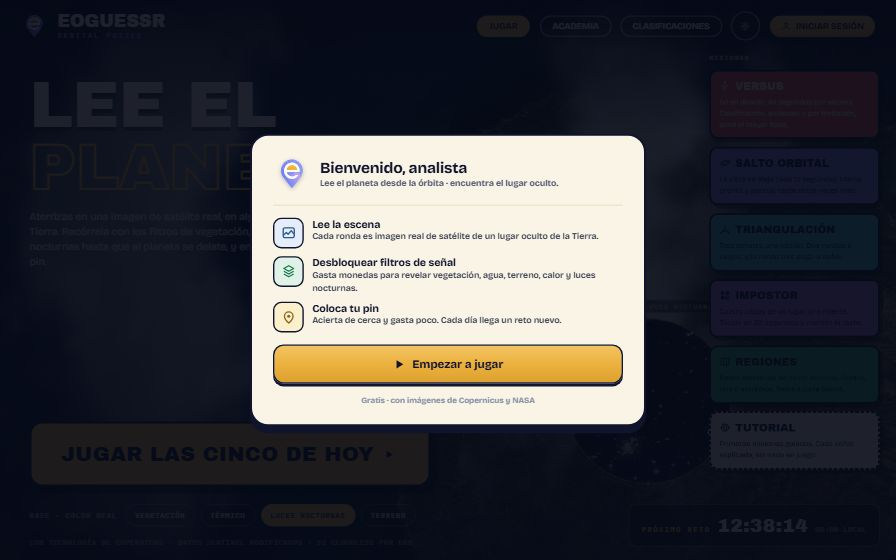
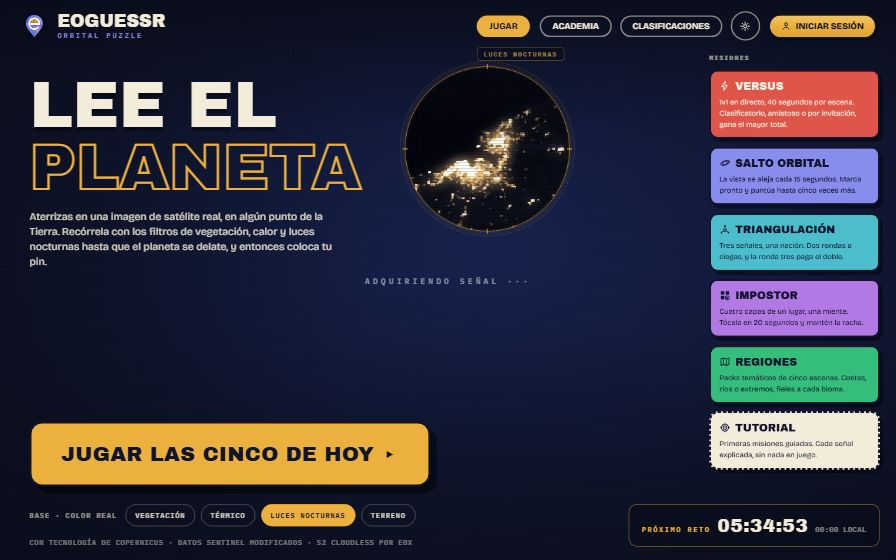
feat(projects): the preview opens the site, not its welcome tour
Four sites greeted a first time visitor with something that covered the
product: a seven step coach on ARQUIVO NÓS, a welcome modal on EOGUESSR,
a language gate on HOXE, an intro carousel on NEXUM. Inside a preview
card nobody can read or dismiss any of it, so the card was showing a
door instead of a room.

Three of them now understand ?embed=1 and skip straight to the product,
and the cards load that. NEXUM keeps its welcome slide: behind it there
is an account signup, not a product, so the slide is the honest picture.

Posters recaptured through the same URLs, so poster and live view show
the same thing while one fades into the other.

diff --git a/src/data/projects.ts b/src/data/projects.ts
@@ -22,6 +22,13 @@ export type Project = {
      * Turn it back to true once the site names mcebral.com as a frame ancestor.
      */
     embeddable?: boolean;
+    /**
+     * What the preview loads, when that is not simply the first link. Sites
+     * that greet a first time visitor with a tour or a language gate take
+     * ?embed=1, which skips it: nobody can read or dismiss a tour inside a
+     * card, so it would only hide the thing worth showing.
+     */
+    previewUrl?: string;
 };
 
 // ── EDIT PROJECTS HERE ────────────────────────────────────────────────────
@@ -100,6 +107,7 @@ export const projects: Project[] = [
         accent: "#4ec1ce",
         logo: "/projects/eoguessr.svg",
         links: [{ label: "Live ↗", href: "https://eoguessr.app" }],
+        previewUrl: "https://eoguessr.app/?embed=1",
     },
     {
         id: "rakugaki",
@@ -122,6 +130,7 @@ export const projects: Project[] = [
         accent: "#8fa76b",
         logo: "/projects/arquivonos.svg",
         links: [{ label: "Live ↗", href: "https://arquivonos.com" }],
+        previewUrl: "https://arquivonos.com/?embed=1",
     },
     {
         id: "hoxe",
@@ -133,5 +142,6 @@ export const projects: Project[] = [
         accent: "#d8b878",
         logo: "hoxe",
         links: [{ label: "Live ↗", href: "https://hoxe.org" }],
+        previewUrl: "https://hoxe.org/?embed=1",
     },
 ];

diff --git a/src/components/projects/ProjectsIndex.tsx b/src/components/projects/ProjectsIndex.tsx
@@ -62,7 +62,7 @@ export function ProjectsIndex() {
     return (
         <div className="proj-index" onPointerLeave={() => programar(null)}>
             {projects.map((p, i) => {
-                const sitio = p.links?.[0]?.href;
+                const sitio = p.previewUrl ?? p.links?.[0]?.href;
                 // The two projects with a talk keep the talk: it is stronger
                 // proof than a screenshot, and both would crowd the card.
                 const preview = !p.video && sitio;
